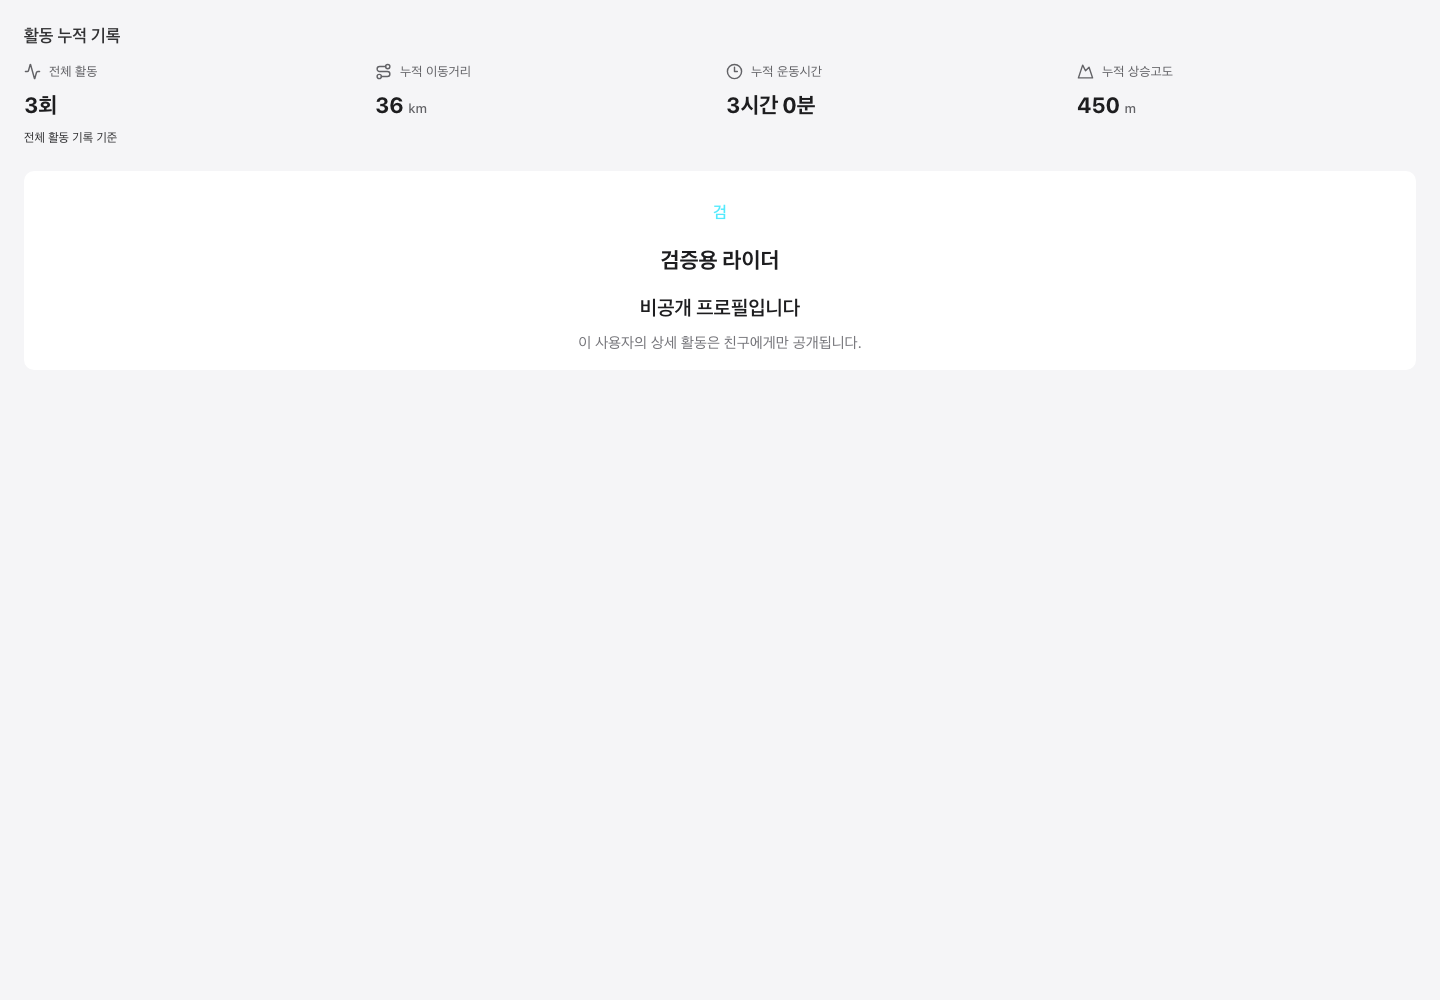
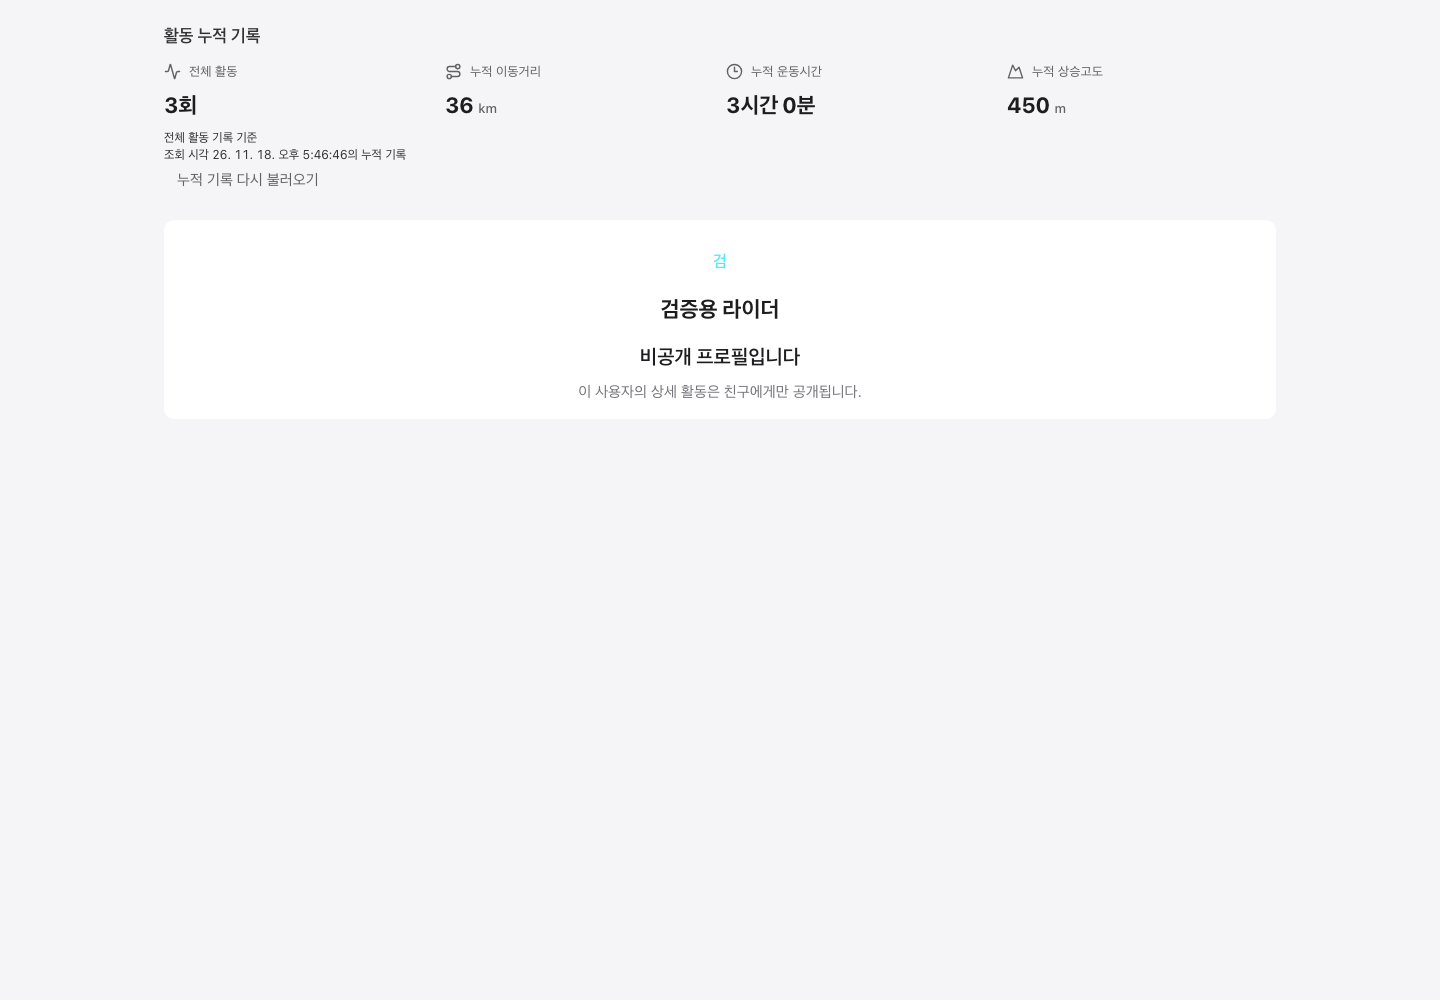
fix: show fresh server-authorized snapshots with retrieval time and signal recovery

diff --git a/src/pages/AthletePage.tsx b/src/pages/AthletePage.tsx
@@ -225,6 +225,7 @@ export default function AthletePage({ meUserId }: { meUserId?: string } = {}) {
     return () => { cancelled = true; };
   }, [userId, isOwnProfile, totalsAttempt, readIdentity, liveTotals?.epoch]);
   type TotalsSignal = { present: boolean; fromCache: boolean; error: boolean; revision: string };
+  const [signalAttempt, setSignalAttempt] = useState(0);
   const [totalsSignals, setTotalsSignals] = useState<{ identity: typeof readIdentity; public?: TotalsSignal; viewer?: TotalsSignal } | null>(null);
   useEffect(() => {
     if (isOwnProfile || !userId) return;
@@ -248,26 +249,28 @@ export default function AthletePage({ meUserId }: { meUserId?: string } = {}) {
     const viewer = services.auth.currentUser?.uid;
     const stopViewer = viewer ? watch("viewer", "users", viewer, "activitySocialAccessRevision") : undefined;
     return () => { active = false; stopPublic(); stopViewer?.(); };
-  }, [isOwnProfile, userId, readIdentity, services]);
+  }, [isOwnProfile, userId, readIdentity, services, signalAttempt]);
   const currentSignals = totalsSignals?.identity === readIdentity ? totalsSignals : null;
   const publicTotalsScopeRef = useRef({ identity: readIdentity, signals: currentSignals });
   if (publicTotalsScopeRef.current.identity !== readIdentity || publicTotalsScopeRef.current.signals !== currentSignals)
     publicTotalsScopeRef.current = { identity: readIdentity, signals: currentSignals };
   const publicTotalsScope = publicTotalsScopeRef.current;
-  const [publicTotals, setPublicTotals] = useState<{ identity: typeof readIdentity; scope: typeof publicTotalsScope; value: PublicAthleteTotals } | null>(null);
+  const [publicTotals, setPublicTotals] = useState<{ identity: typeof readIdentity; scope: typeof publicTotalsScope; readAt: number; value: PublicAthleteTotals } | null>(null);
   const [publicTotalsError, setPublicTotalsError] = useState(false);
   const [publicTotalsExpired, setPublicTotalsExpired] = useState(false);
   useEffect(() => {
     let cancelled = false;
     let expiry: ReturnType<typeof setTimeout> | undefined;
     setPublicTotals(null); setPublicTotalsError(false); setPublicTotalsExpired(false);
-    if (isOwnProfile || !userId || !currentSignals?.public || services.auth.currentUser && !currentSignals.viewer || currentSignals.public.fromCache || currentSignals.viewer?.fromCache) return;
+    if (isOwnProfile || !userId) return;
     void loadPublicAthleteTotals(services, userId, () => !cancelled && publicTotalsScopeRef.current === publicTotalsScope)
       .then(value => {
         if (cancelled || publicTotalsScopeRef.current !== publicTotalsScope) return;
-        setPublicTotals({ identity: readIdentity, scope: publicTotalsScope, value });
-        // Live server snapshots revoke cached authorization on disconnection. Missing/failed signals get a one-shot lease.
-        if (!currentSignals.public!.present || currentSignals.public!.error || currentSignals.viewer?.error) expiry = setTimeout(() => {
+        // Values always come from a fresh server-authorized callable, never a cached Firestore snapshot.
+        // Like existing public detail reads, authorization is checked at read time (P3).
+        setPublicTotals({ identity: readIdentity, scope: publicTotalsScope, readAt: Date.now(), value });
+        // Signal changes discard old results. Missing/failed/cached signals only allow a short, server-authorized snapshot.
+        if (!currentSignals?.public?.present || currentSignals.public.error || currentSignals.public.fromCache || currentSignals.viewer?.error || currentSignals.viewer?.fromCache) expiry = setTimeout(() => {
           cancelled = true; setPublicTotals(null); setPublicTotalsExpired(true);
         }, 60_000);
       })
@@ -283,6 +286,10 @@ export default function AthletePage({ meUserId }: { meUserId?: string } = {}) {
     window.addEventListener("focus", refresh); document.addEventListener("visibilitychange", refresh);
     return () => { window.removeEventListener("focus", refresh); document.removeEventListener("visibilitychange", refresh); };
   }, [isOwnProfile, userId, readIdentity]);
+  const retryPublicTotals = () => {
+    if (currentSignals?.public?.error || currentSignals?.viewer?.error) setSignalAttempt(value => value + 1);
+    else setTotalsAttempt(value => value + 1);
+  };
   const [ownerPhotos, setOwnerPhotos] = useState<AthletePhoto[]>([]);
   const [ownerHighlights, setOwnerHighlights] = useState<AthleteHighlight[]>([]);
   const [photoCursor, setPhotoCursor] = useState<AthletePreviewCursor | null>(null);
@@ -892,9 +899,10 @@ export default function AthletePage({ meUserId }: { meUserId?: string } = {}) {
           ].map(({label, value, Icon}) => <div key={label} className="athlete-stat"><span className="athlete-stat__label"><Icon size={ICON_SIZE.md} aria-hidden="true" />{label}</span><strong className="athlete-stat__value">{value}</strong></div>)}
         </div>
         {isOwnProfile && !statsReady && <p role="status">{t(totalsError || ownerTotals?.state === "failed" ? "profile.totalsFailed" : "profile.totalsPending")}<Text as="span" variant="caption">{t(ownerTotals?.integrityFailed ? "profile.totalsRestartScope" : "profile.totalsContinueScope")}</Text><Button size="sm" onClick={() => { totalsRetry.current = { identity: readIdentity, epoch: ownerTotals?.epoch, attempt: totalsAttempt + 1 }; setTotalsAttempt(totalsAttempt + 1); }}>{t(ownerTotals?.integrityFailed ? "profile.restartTotals" : "profile.continueTotals")}</Button></p>}
-        {!isOwnProfile && !statsReady && <p role="status">{t(summaryError || summaryTotals?.state === "failed" ? "profile.totalsFailed" : publicTotalsExpired ? "profile.totalsExpired" : "profile.totalsPending")}<Button size="sm" onClick={() => setTotalsAttempt(value => value + 1)}>{t("profile.reloadTotals")}</Button></p>}
+        {!isOwnProfile && !statsReady && <p role="status">{t(summaryError || summaryTotals?.state === "failed" ? "profile.totalsFailed" : publicTotalsExpired ? "profile.totalsExpired" : "profile.totalsPending")}<Button size="sm" onClick={retryPublicTotals}>{t("profile.reloadTotals")}</Button></p>}
         <Text as="p" variant="caption" tone="secondary" className="mt-2">{t(isOwnProfile ? "stats.scopeOwn" : "stats.scopePublic")}</Text>
-        {!isOwnProfile && statsReady && <Button size="sm" variant="ghost" onClick={() => setTotalsAttempt(value => value + 1)}>{t("profile.reloadTotals")}</Button>}
+        {!isOwnProfile && publicTotals && publicTotals.scope === publicTotalsScope && <Text as="p" variant="caption" tone="secondary">{t("profile.totalsAsOf", { time: new Intl.DateTimeFormat(i18n.language, { dateStyle: "short", timeStyle: "medium" }).format(publicTotals.readAt) })}</Text>}
+        {!isOwnProfile && statsReady && <Button size="sm" variant="ghost" onClick={retryPublicTotals}>{t("profile.reloadTotals")}</Button>}
       </section>
   );
 

diff --git a/src/pages/AthletePage.test.tsx b/src/pages/AthletePage.test.tsx
@@ -957,7 +957,7 @@ it("invalidates both displayed totals and late responses on public projection de
   expect(screen.queryByText("99회")).not.toBeInTheDocument();
 });
 
-it.each(["users_public/athlete-1", "users/viewer"])("revokes cached totals on offline metadata from %s and restores them only after server revalidation", async path => {
+it.each(["users_public/athlete-1", "users/viewer"])("invalidates previous totals on offline metadata from %s and restores only fresh callable results", async path => {
   setDocData("users_public/athlete-1", { nickname: "Connected rider", athleteTotalsSignal: "one" });
   const original = vi.mocked(onSnapshot).getMockImplementation()!;
   const updates = new Map<string, (snapshot: unknown) => void>();
@@ -981,4 +981,27 @@ it.each(["users_public/athlete-1", "users/viewer"])("revokes cached totals on of
     await screen.findByText("9회");
     expect(mockCallableInvocations.filter(call => call.name === "getPublicAthleteTotals")).toHaveLength(calls + 1);
   } finally { timer.mockRestore(); vi.mocked(onSnapshot).mockImplementation(original); }
+});
+
+it.each(["cache", "error"])("shows a freshly authorized callable snapshot even when signal state is %s, and manual retry reconnects signals", async initial => {
+  setDocData("users_public/athlete-1", { nickname: "Callable rider", athleteTotalsSignal: "one" });
+  const original = vi.mocked(onSnapshot).getMockImplementation()!;
+  let phase = initial;
+  vi.mocked(onSnapshot).mockImplementation(((ref: { path: string }, options: unknown, next: unknown, error: unknown) => {
+    if (!options || typeof options !== "object" || !("includeMetadataChanges" in options))
+      return (original as (...args: unknown[]) => () => void)(ref, options, next, error);
+    if (phase === "error") { (error as (failure: Error) => void)(new Error("signal unavailable")); return () => {}; }
+    return (original as (...args: unknown[]) => () => void)(ref, options, (snapshot: { metadata: object }) => {
+      (next as (value: unknown) => void)({ ...snapshot, metadata: { ...snapshot.metadata, fromCache: phase === "cache" } });
+    }, error);
+  }) as never);
+  try {
+    renderWithProviders(<AthletePage />, { authenticated: true, user: { uid: "viewer" } });
+    await screen.findByText("5회");
+    expect(screen.getByText(/조회 시각 .*의 누적 기록/)).toBeInTheDocument();
+    setCallableResult("getPublicAthleteTotals", { data: totalsFixture({ count: 9 }) });
+    phase = "server";
+    fireEvent.click(screen.getByRole("button", { name: "누적 기록 다시 불러오기" }));
+    await screen.findByText("9회");
+  } finally { vi.mocked(onSnapshot).mockImplementation(original); }
 });

diff --git a/docs/testing/issue-1725/README.md b/docs/testing/issue-1725/README.md
@@ -7,3 +7,5 @@ Synthetic local Firestore fixture, three private activities: 3 activities, 36 km
 - App embedded surface: 390×844, English, guest fixture (host application / physical WebView not exercised)
 
 All three show identical four totals and whole-history wording. Private activity description remains absent. Guest/authenticated visitor rendering and pending/failed/unknown states are also covered by component/service tests. Server tests cover direct detail authorization denial and identical guest/stranger/friend/owner totals with mixed visibility. Production deployment and logged-in acceptance must be recorded separately.
+
+Screenshots refreshed from the final read-time snapshot UI: successful callable results include their retrieval time, English visitor wording uses all activity records, and no cached Firestore document provides the metric values. Existing-account bulk backfill and ledger repair are excluded by user instruction.
